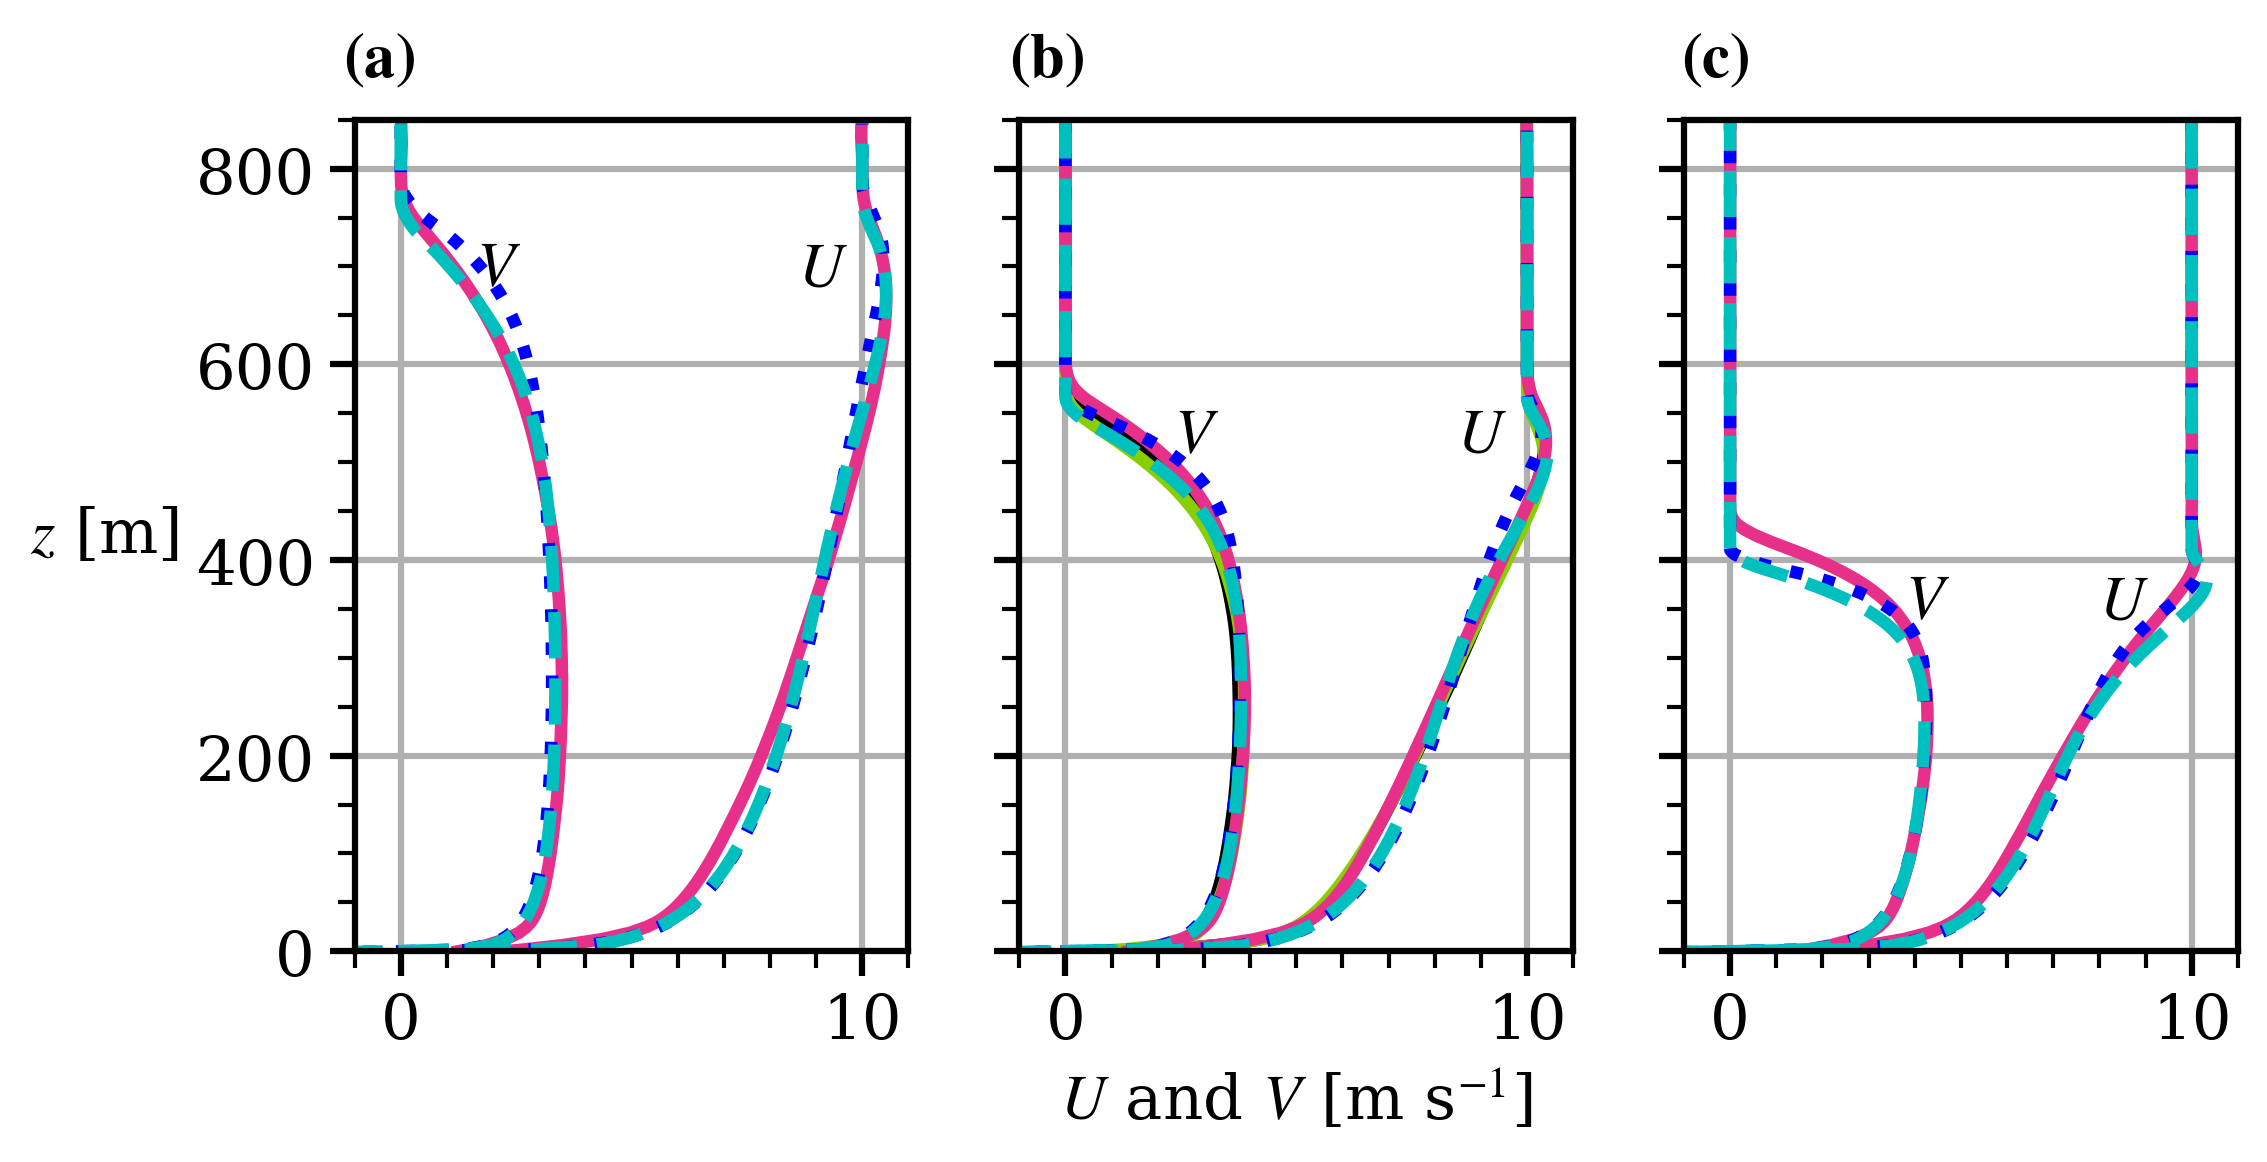
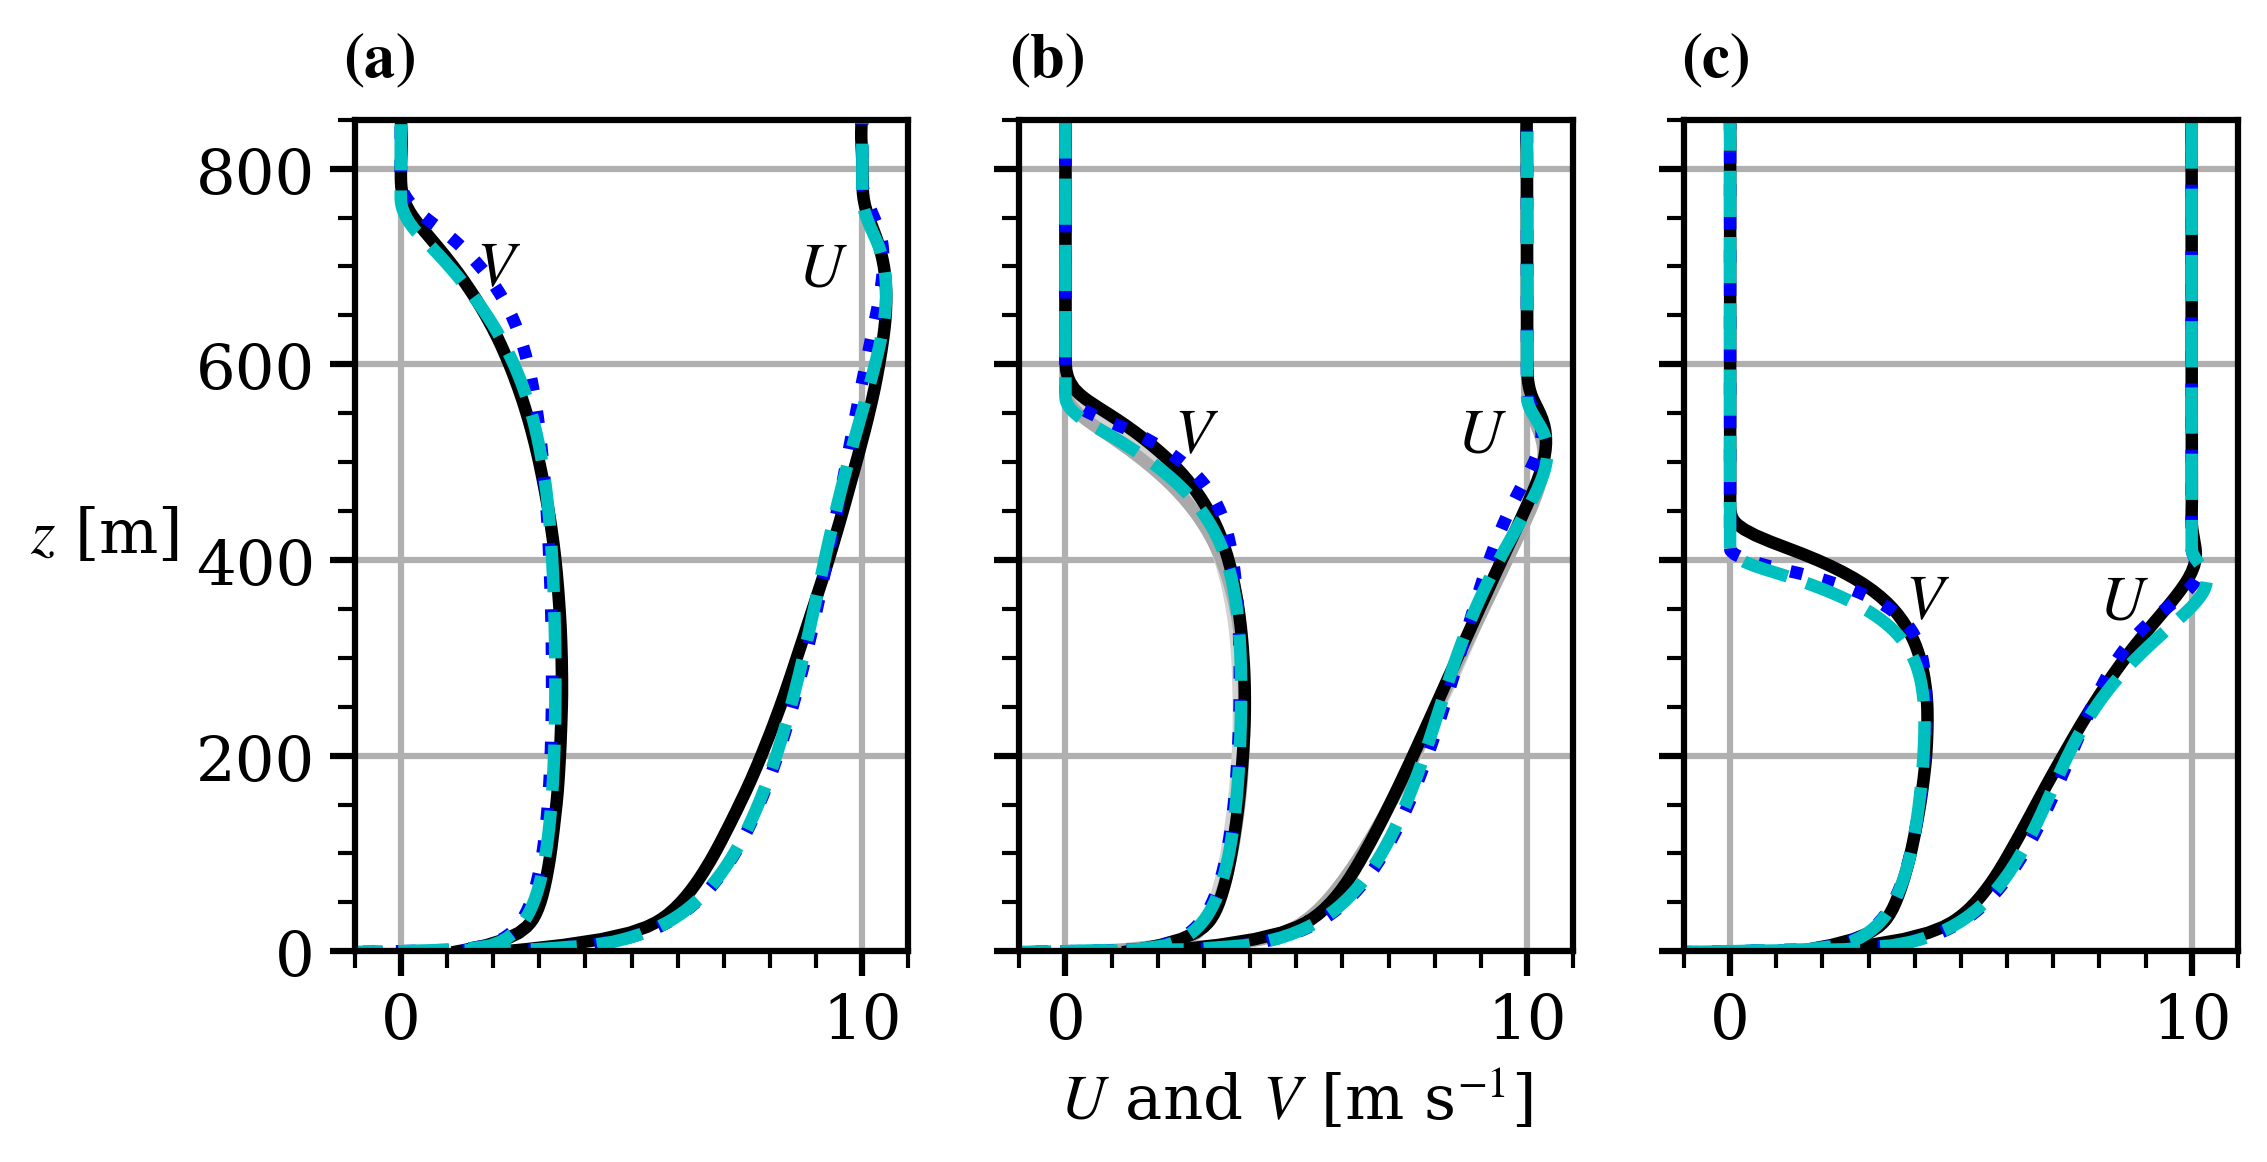
change color scheme

diff --git a/plot_data.py b/plot_data.py
@@ -13,6 +13,8 @@ plt.rcParams['ytick.right'] = False
 plt.rcParams['ytick.direction'] = 'out'
 plt.rcParams['grid.linewidth'] = 1.5
 plt.rcParams['axes.grid']=True
+# Set DPI to 300 for high-quality figures
+plt.rcParams['figure.dpi'] = 300
 yd = {'rotation': 0, 'ha': 'right', 'va': 'center'}
 plt.rcParams.update({
     'axes.linewidth': 1.5,          # Thickness of the axes (spines)
@@ -72,9 +74,12 @@ lesV = xr.open_dataset("LES/neutral_gamma0003_vreman.nc")
 # NCAR
 lesN = xr.open_dataset("LES/neutral_gamma0003_ncar.nc")
 # Linestyles
-lnsty    = {'color': 'k', 'label': 'NCAR', 'linewidth': 3}
-lvsty    = {'color': "#89ce00", 'label': 'Vreman', 'linewidth': 3}
-ltsty    = {'color': "#e6308a", 'label': 'Deardorf', 'linewidth': 3}
+#lnsty    = {'color': 'k', 'label': 'NCAR', 'linewidth': 3}
+#lvsty    = {'color': "#89ce00", 'label': 'Vreman', 'linewidth': 3}
+#ltsty    = {'color': "#e6308a", 'label': 'Deardorf', 'linewidth': 3}
+lnsty    = {'color': 'lightgrey', 'label': 'NCAR', 'linewidth': 3}
+lvsty    = {'color': 'darkgrey', 'label': 'Vreman', 'linewidth': 3}
+ltsty    = {'color': 'k', 'label': 'Deardorf', 'linewidth': 3}
 
 
 #########################################################################
@@ -220,8 +225,8 @@ for i in range(len(rans)):
     plt.gcf().axes[i].plot(c['msol']['Kt']/em2,c['y']['yc'],**fisty)  
     # BL height (based on dTdz)
     ax.set_xlim(ax.get_xlim())
-    ax.plot(ax.get_xlim(),[ziLES[i],ziLES[i]],**bllsty)
-    ax.plot(ax.get_xlim(),[ziRANS[i],ziRANS[i]],**blrsty)
+    #ax.plot(ax.get_xlim(),[ziLES[i],ziLES[i]],**bllsty)
+    #ax.plot(ax.get_xlim(),[ziRANS[i],ziRANS[i]],**blrsty)
     
 plt.gcf().axes[0].xaxis.set_minor_locator(plt.MultipleLocator(0.02))
 plt.gcf().axes[1].xaxis.set_minor_locator(plt.MultipleLocator(0.1))
